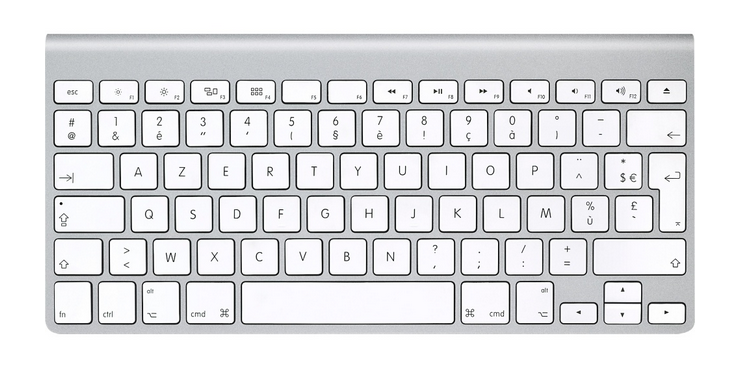
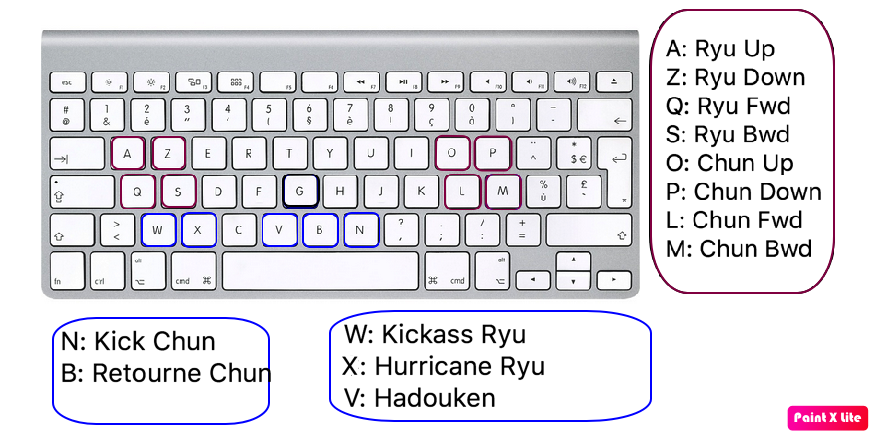
After Instructions

diff --git a/index.html b/index.html
@@ -9,6 +9,7 @@
     </head>
     <body>
         <div id="departjeu">
+            <img class="instructions" src="images/clavier.jpg">
             <button><a href="streetfighters.html">START GAME</a></button>
         </div>
     <script type="text/javascript" src="Js/home.js"></script>

diff --git a/stylesheets/styles.css b/stylesheets/styles.css
@@ -71,3 +71,11 @@ button a {
 h2{
     text-align: center;
 }
+
+.instructions{
+    width: 300px;
+    height: 200px;
+    position: absolute;
+    top: 0;
+    right: 0;
+}
